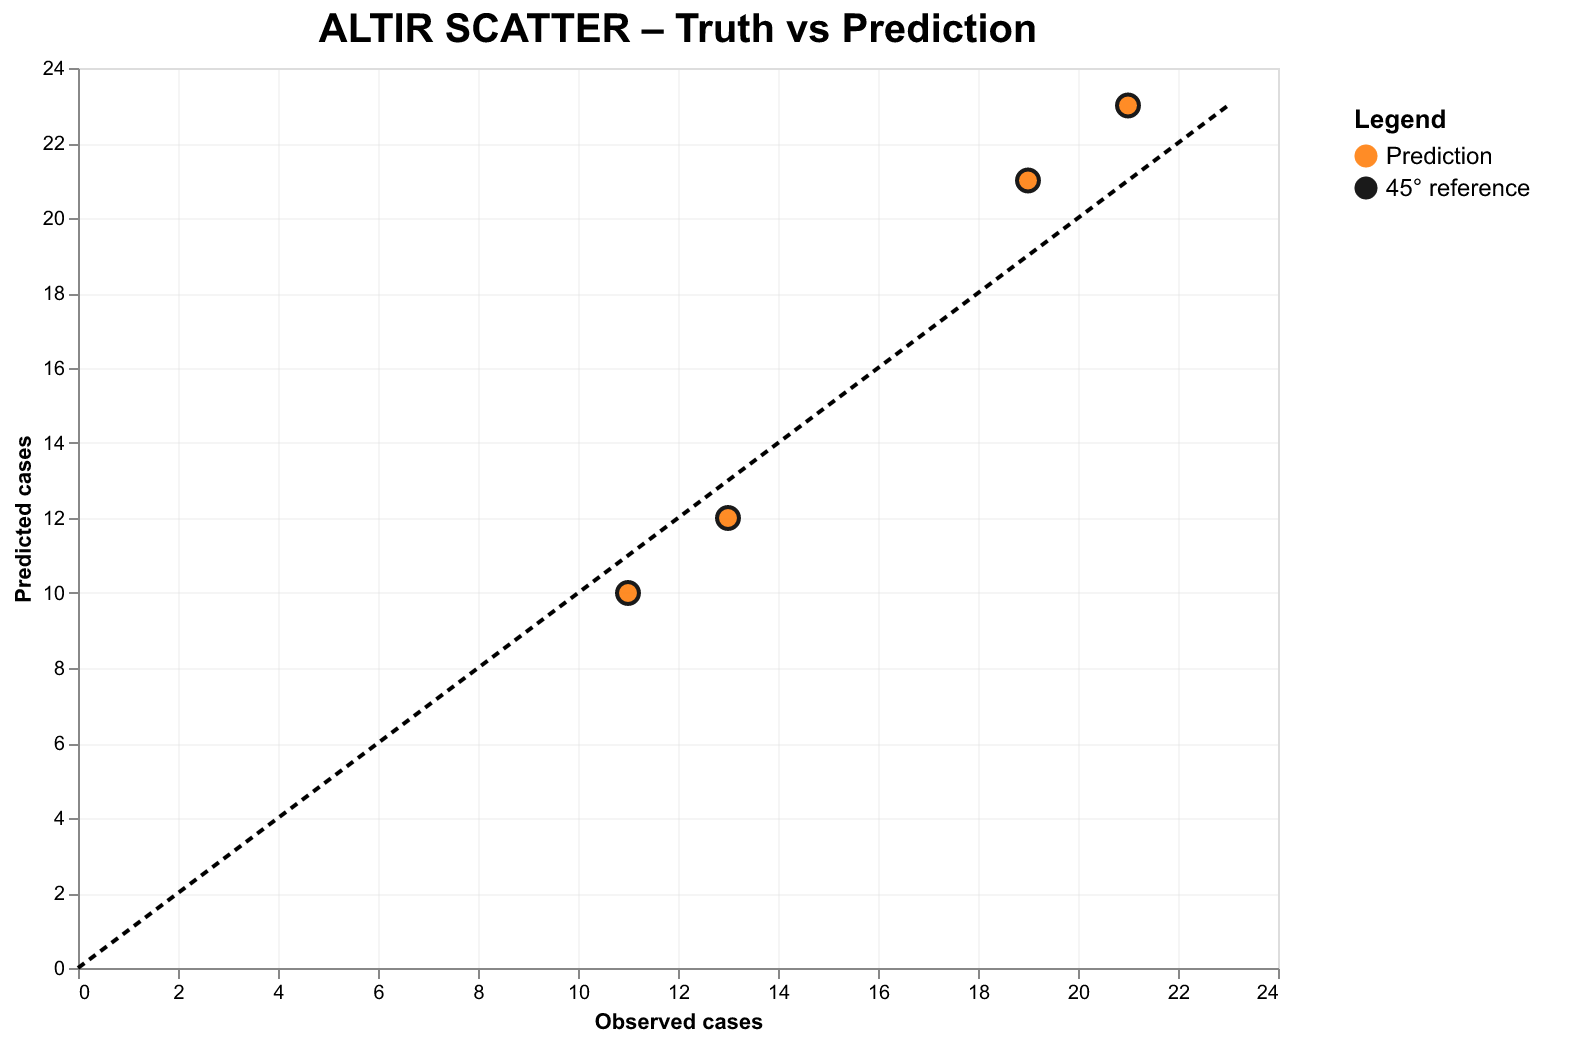
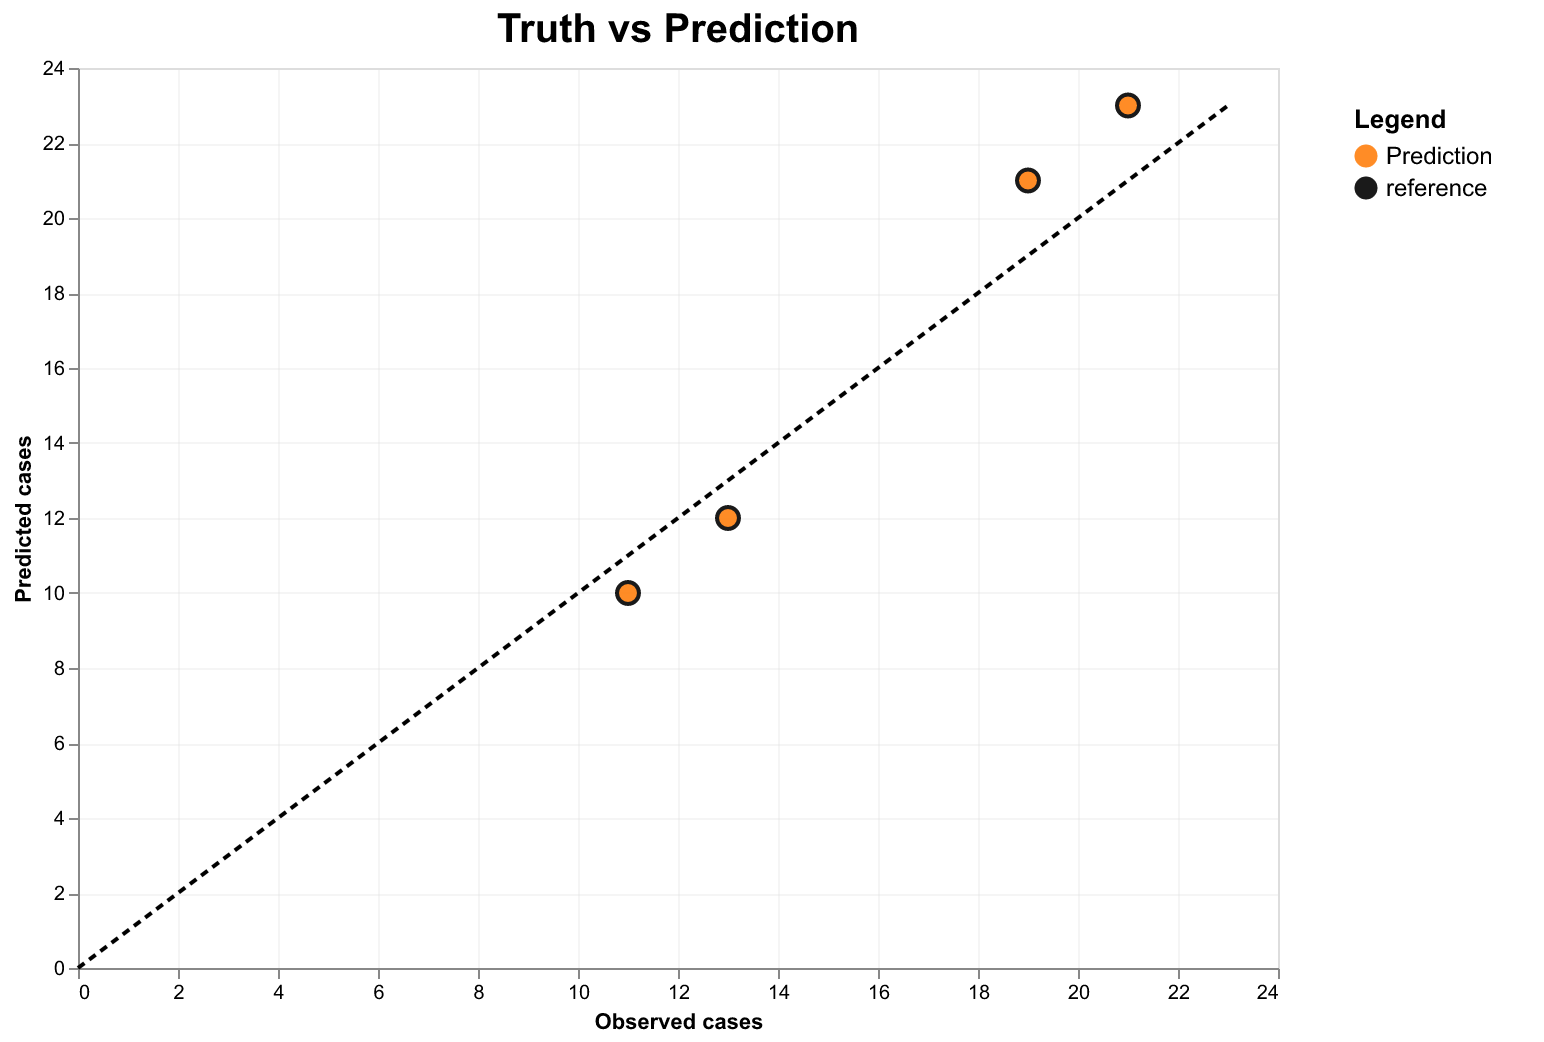
fixed errors

diff --git a/scatter_plot.py b/scatter_plot.py
@@ -4,7 +4,7 @@ Altair-based scatter plot:
     - x-axis: observed disease cases
     - y-axis: predicted disease cases
     - points: forecasts
-    - dashed line: 45-degree reference (perfect prediction)
+    - dashed line: reference line (perfect prediction)
 
 Implemented as a Plotter subclass so it fits into a modular design.
 """
@@ -27,7 +27,7 @@ LINE_COLOR: Final[str] = "#000000"    # black
 
 class ScatterPlotter(Plotter):
     """
-    Truth vs Prediction scatter plot with a 45° reference line.
+    Truth vs Prediction scatter plot with a reference line.
 
     This class implements the Plotter interface and can be plugged into
     any driver that expects Plotter instances (e.g. isolated_run.py).
@@ -91,7 +91,7 @@ class ScatterPlotter(Plotter):
                     "kind:N",
                     title="Legend",
                     scale=alt.Scale(
-                        domain=["Prediction", "45° reference"],
+                        domain=["Prediction", "reference"],
                         range=[POINT_COLOR, LINE_COLOR],
                     ),
                 ),
@@ -103,7 +103,7 @@ class ScatterPlotter(Plotter):
         #   reference line layer 
         diagonal = (
             alt.Chart(line_df)
-            .transform_calculate(kind='"45° reference"')
+            .transform_calculate(kind='"reference"')
             .mark_line(strokeDash=[4, 3], strokeWidth=2)
             .encode(
                 x="x:Q",
@@ -112,7 +112,7 @@ class ScatterPlotter(Plotter):
                     "kind:N",
                     title="Legend",
                     scale=alt.Scale(
-                        domain=["Prediction", "45° reference"],
+                        domain=["Prediction", "reference"],
                         range=[POINT_COLOR, LINE_COLOR],
                     ),
                 ),
